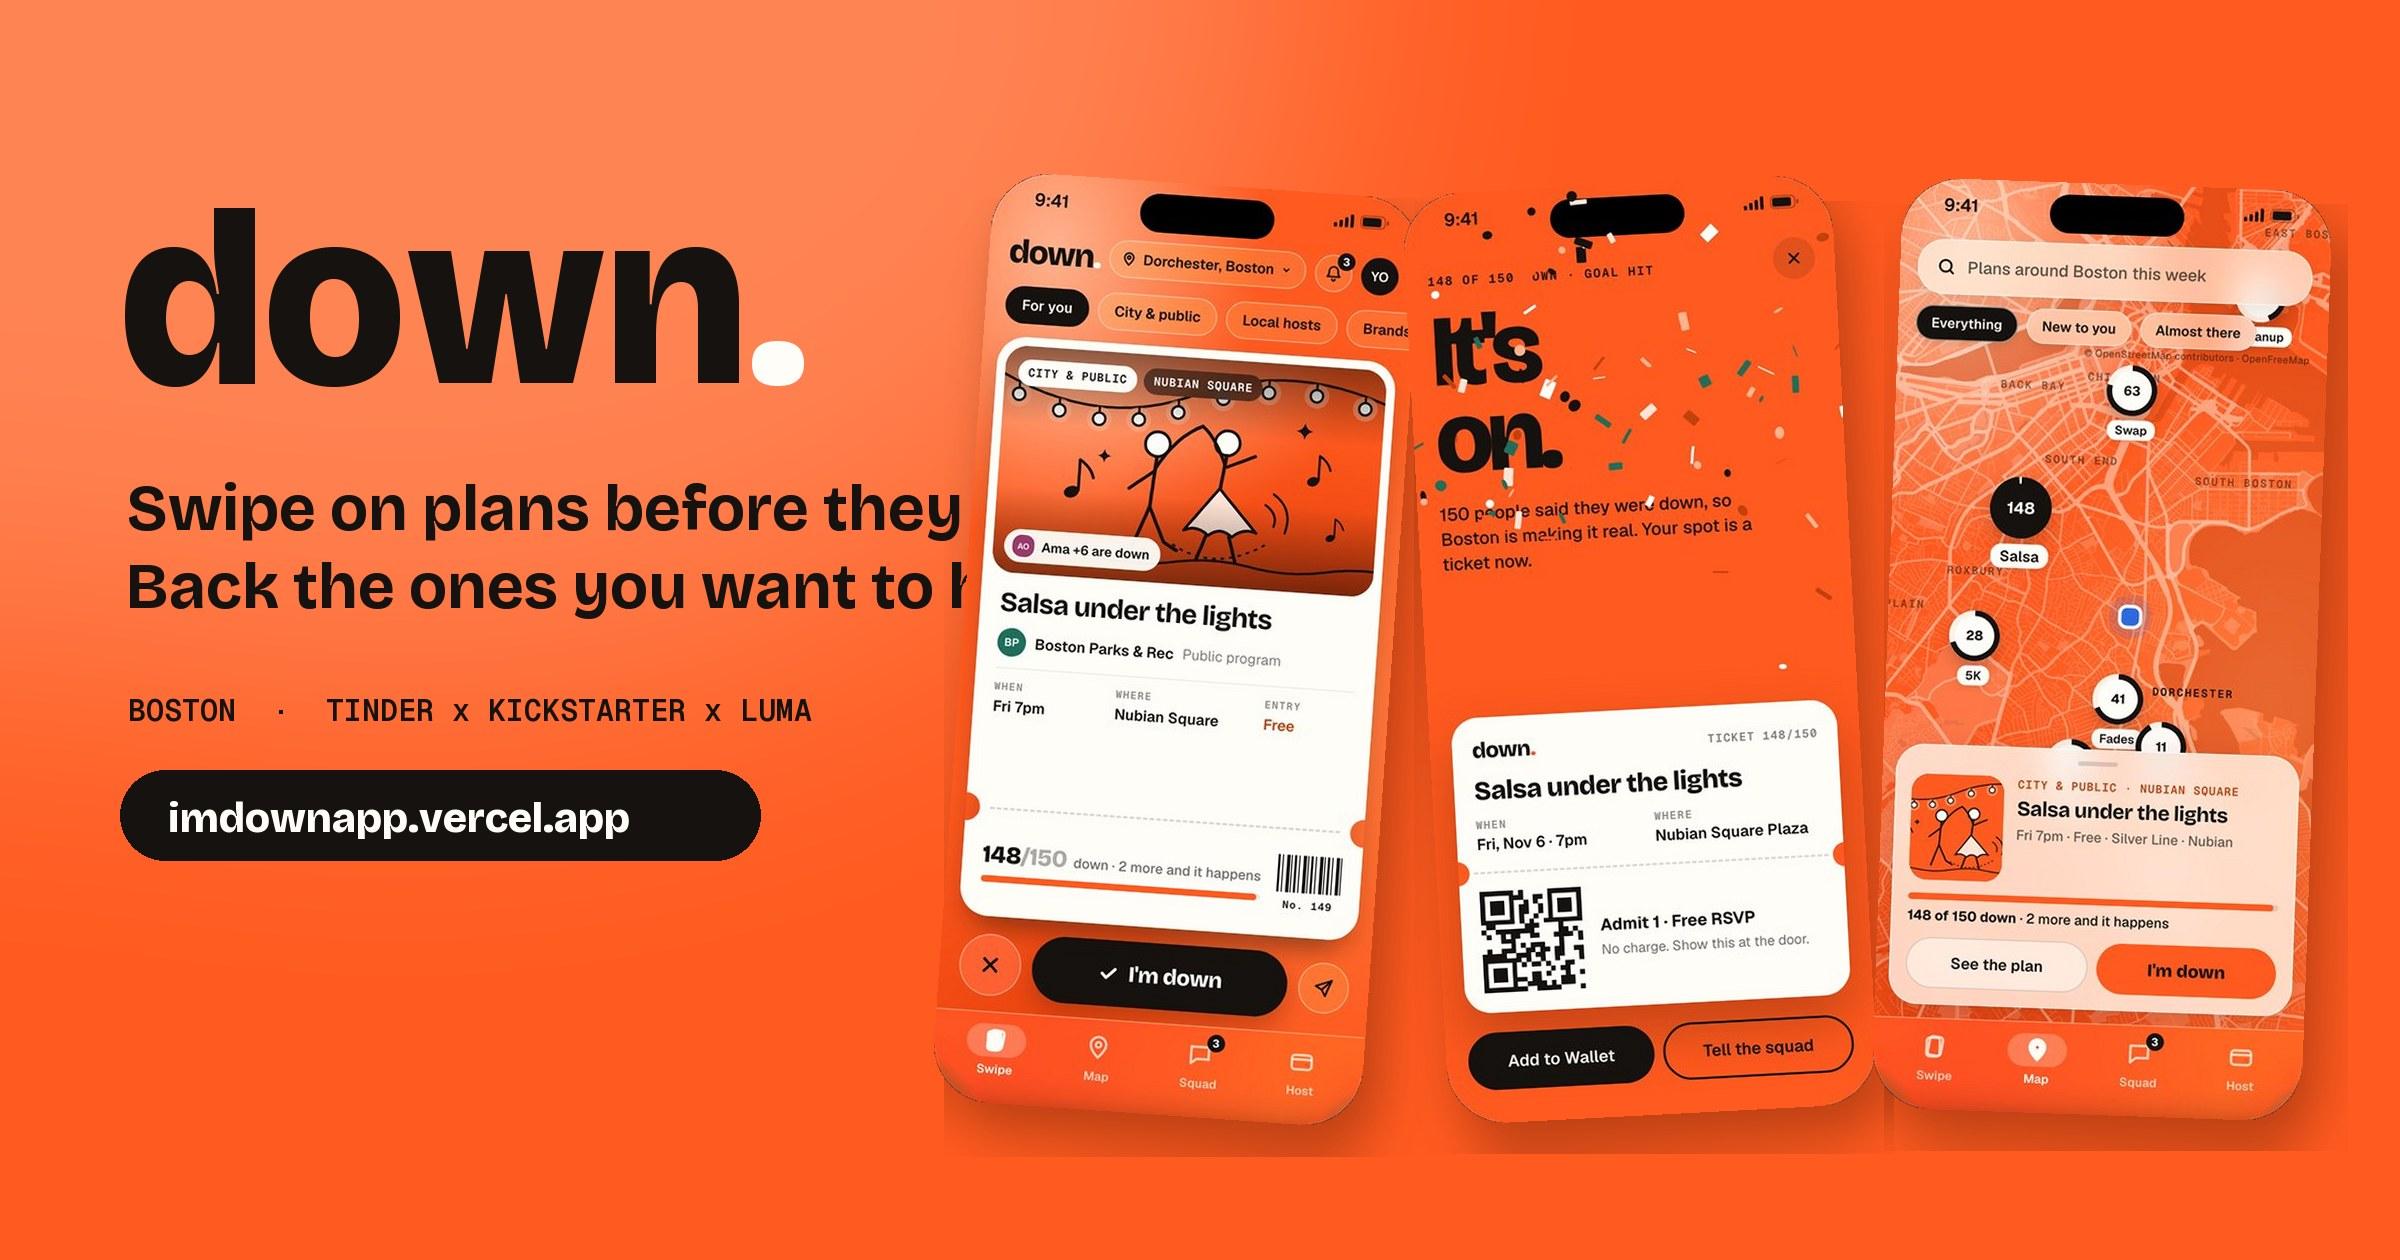
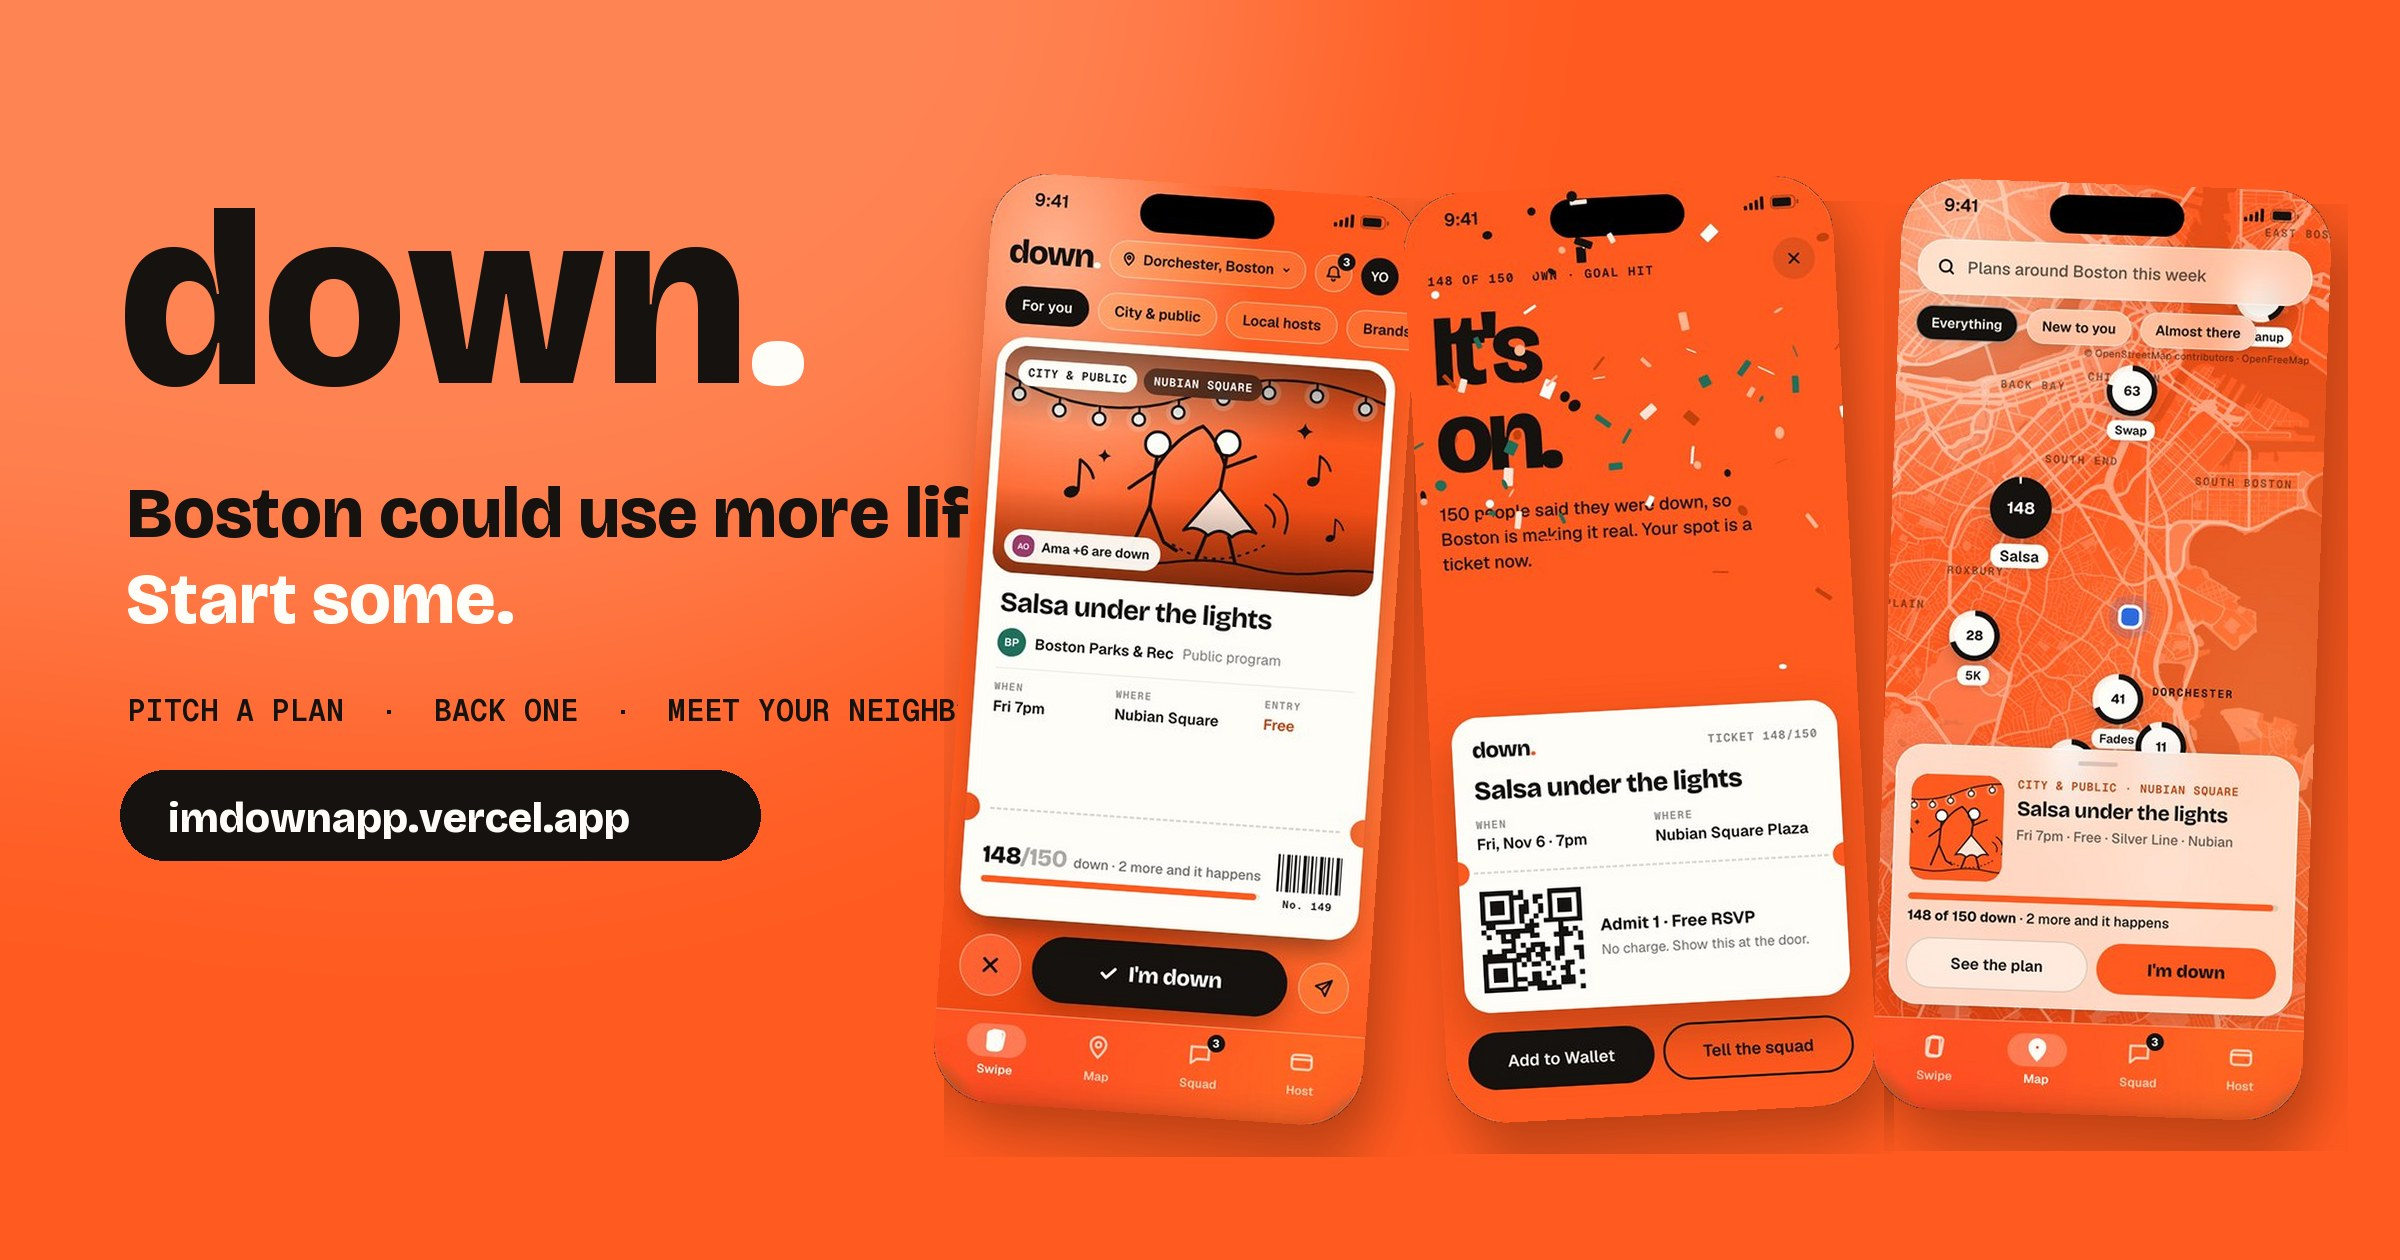
New welcome copy: Boston could use more life. Start some.

Changed region(s): [[0.0312, 0.3714, 0.4062, 0.4952], [0.0625, 0.5571, 0.4062, 0.5881]]

diff --git a/src/down/Phone.gen.tsx b/src/down/Phone.gen.tsx
@@ -1235,10 +1235,10 @@ export function Phone({ vm }: { vm: any }) {
               <T>{"down"}<T s="color:#FFFDF8">{"."}</T></T>
             </V>
             <V s="font:700 27px/1.1 'Bricolage Grotesque',sans-serif;letter-spacing:-.02em;max-width:320px;text-wrap:balance">
-              <T>{"Swipe on plans before they exist. Back the ones you want to happen."}</T>
+              <T>{"Boston could use more life. Start some."}</T>
             </V>
             <V s="font:500 15.5px/1.45 Geist,sans-serif;max-width:310px;color:rgba(21,18,15,.8);text-wrap:pretty">
-              <T>{"Every plan is somewhere in Boston you haven't been yet, with people you haven't met yet."}</T>
+              <T>{"Pitch a plan or back someone else's. When enough people are down, it happens, and meet the neighbor whose dog's name you know but not theirs."}</T>
             </V>
           </V>
           <V s="height:58px;border-radius:29px;border:0;background:#15120F;color:#FFFDF8;font:800 18px 'Bricolage Grotesque',sans-serif;cursor:pointer;flex:none" btn onPress={vm.onb.next} active="transform:scale(.97)">

diff --git a/scripts/transpile.py b/scripts/transpile.py
@@ -82,6 +82,12 @@ phone = next(k for k in p.root.kids if isinstance(k, Node))
 
 BIND = re.compile(r"\{\{\s*([A-Za-z_][\w.]*)\s*\}\}")
 
+# Product copy that supersedes the reference wording.
+COPY = {
+    'Swipe on plans before they exist. Back the ones you want to happen.': 'Boston could use more life. Start some.',
+    "Every plan is somewhere in Boston you haven't been yet, with people you haven't met yet.": "Pitch a plan or back someone else's. When enough people are down, it happens, and meet the neighbor whose dog's name you know but not theirs.",
+}
+
 
 def ref(expr, scope):
     head = expr.split(".")[0]
@@ -162,6 +168,7 @@ def emit_inline(kids, scope, ind):
     for k in kids:
         if isinstance(k, str):
             t = re.sub(r"\s+", " ", k)
+            t = COPY.get(t.strip(), t)
             if not t:
                 continue
             pos = 0

diff --git a/.kiro/BUILD_LOG.md b/.kiro/BUILD_LOG.md
@@ -39,6 +39,7 @@ Chronological record of every build, check and deploy for this project, built in
 | 31 | 19:08 | `.kiro/` steering, specs (native-app, boston-map, demo-launch), hooks, this log | ✅ |
 | 32 | 19:17 | Publish to GitHub: `timetofly1/down` (public, default branch `demo`, website = demo link, topics) | ✅ https://github.com/timetofly1/down |
 | 33 | 19:22 | Connect Vercel project `imdownapp` to GitHub `timetofly1/down` (production branch `demo`, build `npm run build:web` → `dist`) | ✅ pushes to `demo` auto-deploy |
+| 34 | 19:39 | New welcome copy: "Boston could use more life. Start some." + body; applied via transpiler copy overrides, README, hero, meta description, steering | ✅ |
 
 ## Final verification snapshot
 

diff --git a/README.md b/README.md
@@ -1,4 +1,7 @@
-<p align="center"><img src="docs/hero.jpg" alt="down. — swipe on plans before they exist" width="100%"></p>
+<p align="center"><img src="docs/hero.jpg" alt="down. — Boston could use more life. Start some." width="100%"></p>
+
+<h2 align="center">Boston could use more life. Start some.</h2>
+<p align="center">Pitch a plan or back someone else's. When enough people are down, it happens, and meet the neighbor whose dog's name you know but not theirs.</p>
 
 <h3 align="center">👉 <a href="https://imdownapp.vercel.app">Demo link: imdownapp.vercel.app</a></h3>
 <p align="center"><i>Best on a phone: open it in Safari → Share → <b>Add to Home Screen</b>. On a laptop it runs inside an iPhone frame.</i></p>

diff --git a/.kiro/steering/product.md b/.kiro/steering/product.md
@@ -4,7 +4,9 @@ inclusion: always
 
 # Product: down.
 
-**One line:** Swipe on plans before they exist. Back the ones you want to happen.
+**One line:** Boston could use more life. Start some.
+
+> Pitch a plan or back someone else's. When enough people are down, it happens, and meet the neighbor whose dog's name you know but not theirs.
 
 down. is a Boston events app where people discover and back *proposed* plans. A plan only becomes a real event when enough people say they're down. It combines three familiar patterns:
 
